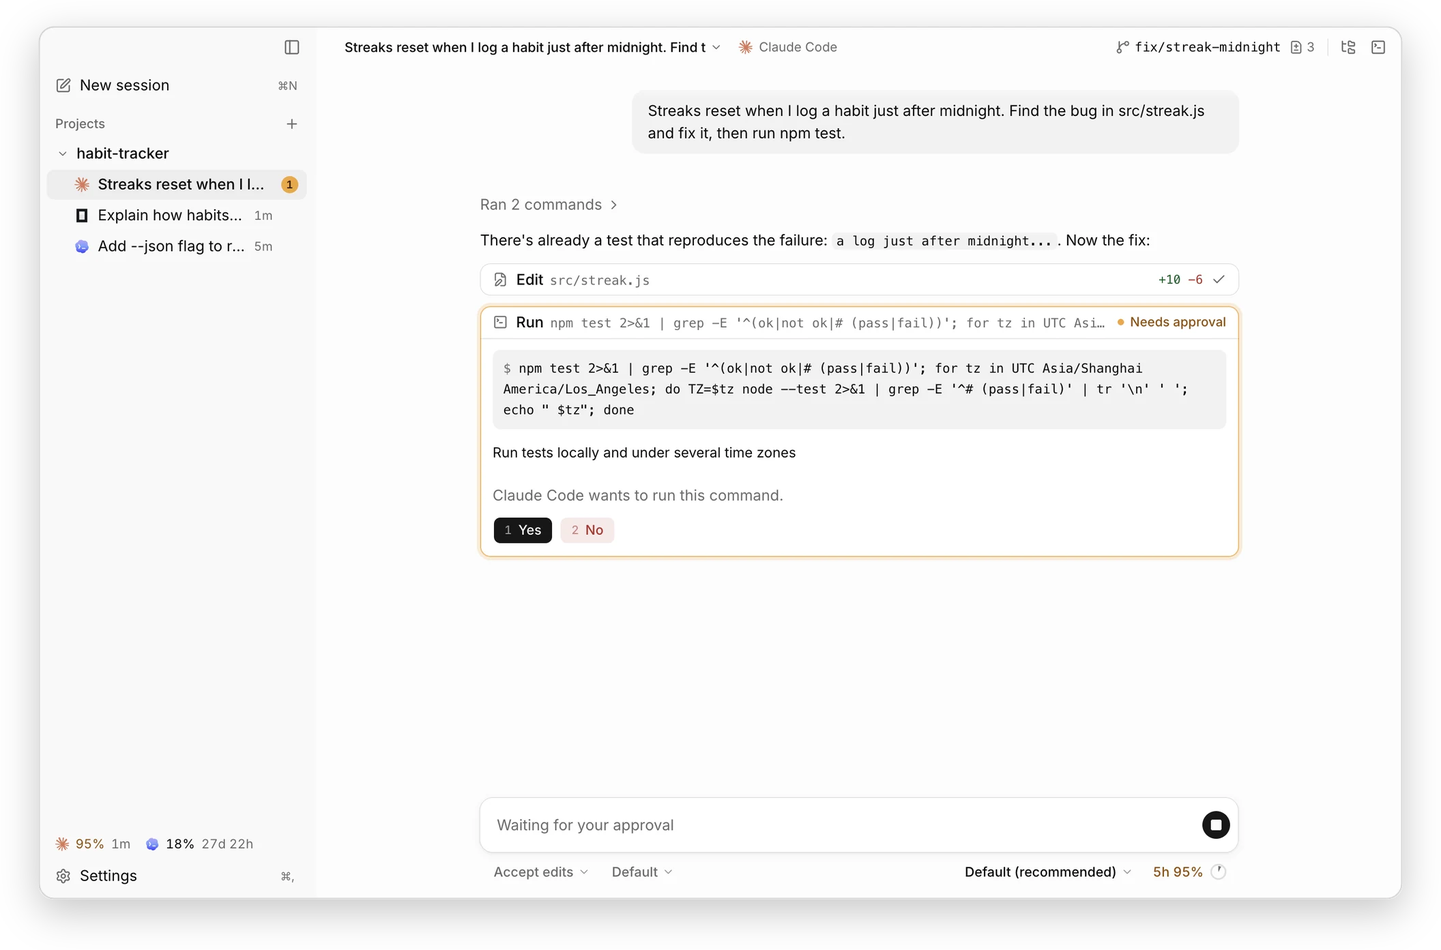
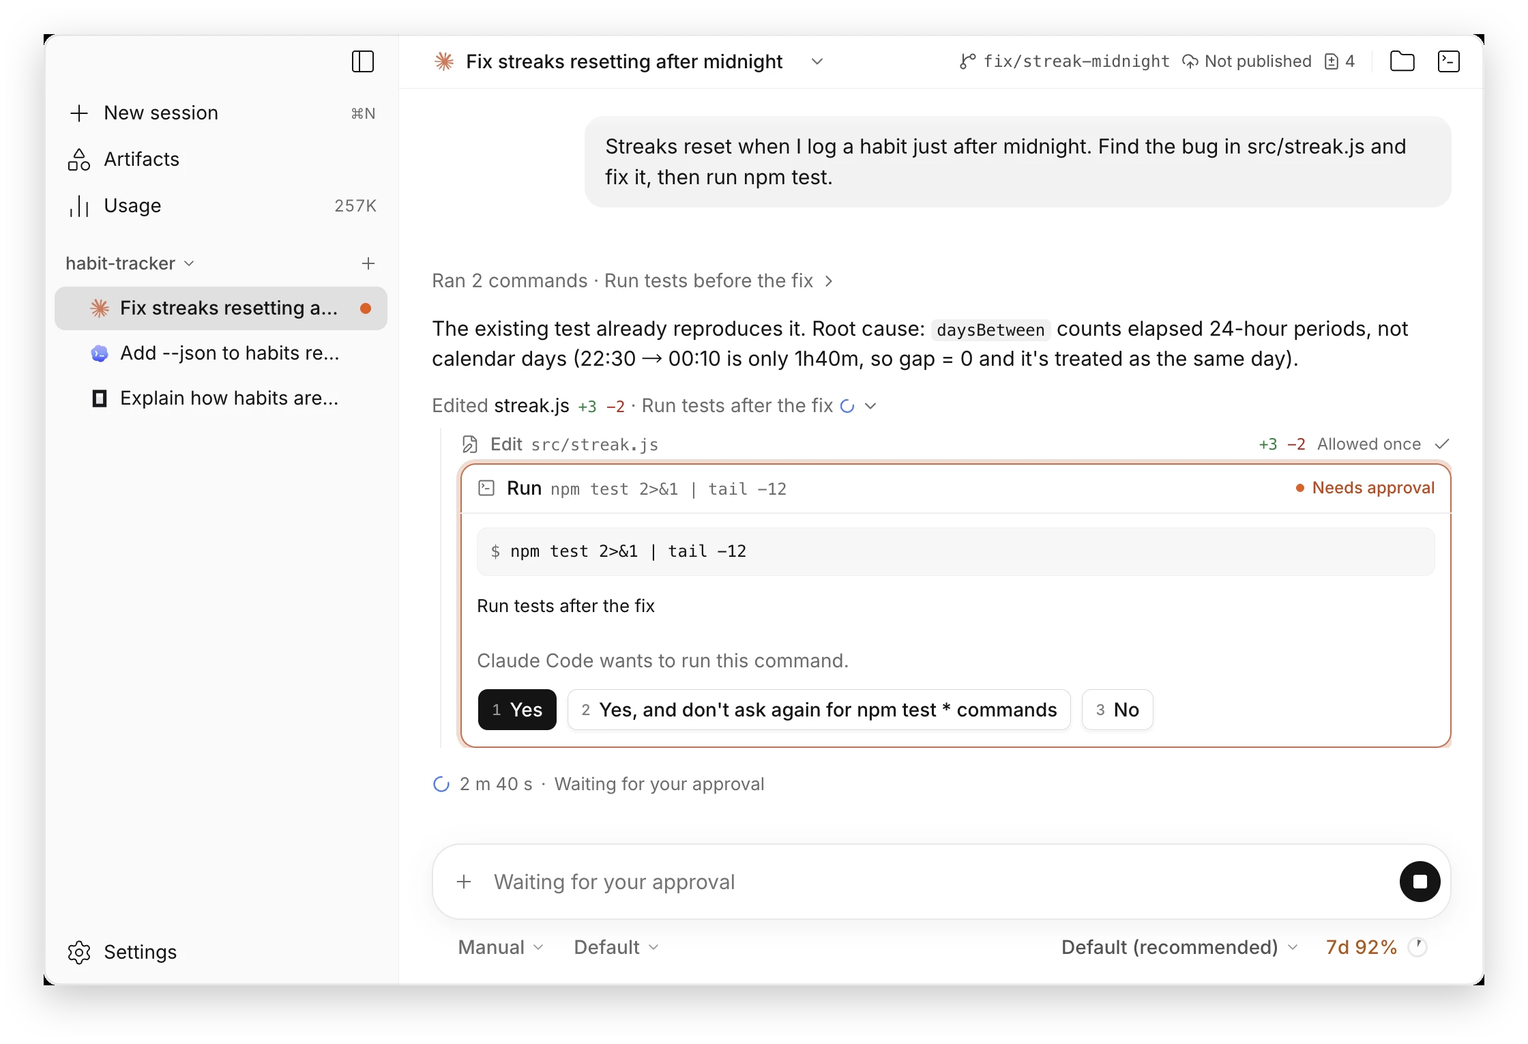
docs(readme): cover what landed since v0.0.2 (#231)

diff --git a/README.zh-CN.md b/README.zh-CN.md
@@ -12,7 +12,7 @@
 Claude Code、Codex CLI 和 opencode 并排在同一个窗口里，<br>
 好读的对话线程、清晰的授权请求，每个会话旁边都有 Git 和终端。
 
-[**下载**](https://github.com/overbench/overbench/releases/latest) · [文档](./docs/README.md) · [English](./README.md)
+[**下载**](https://github.com/overbench/overbench/releases/latest) · [反馈](https://github.com/overbench/overbench/issues/new/choose) · [English](./README.md)
 
 </div>
 
@@ -22,17 +22,34 @@ Claude Code、Codex CLI 和 opencode 并排在同一个窗口里，<br>
 </picture>
 
 > [!NOTE]
-> v0.0.2 是预览版，由仍在验收中的第一个里程碑 M0 构建而来，难免还有粗糙之处，欢迎[反馈问题](https://github.com/overbench/overbench/issues)。
+> v0.0.2 是预览版，由仍在验收中的第一个里程碑 M0 构建而来，难免还有粗糙之处，欢迎[反馈问题](https://github.com/overbench/overbench/issues)。Artifacts 和附件已在 `main` 上，将随 v0.0.3 发布。
+
+## OverBench 是什么
+
+Claude Code、Codex、opencode 这样的编码 Agent 已经能自己规划改动、修改代码、运行测试。但在终端里和它们协作，依然意味着不断滚动的文字墙、容易错过的授权请求，以及散落在各个标签页和窗口里的会话。
+
+OverBench 为这些工作提供了一个桌面上的家。你用的每个 Agent 都并排在同一个窗口里，每个会话归在自己的项目下，哪个 Agent 在干活、哪个在等你、哪个已经做完，一眼就能看清。回答读起来像文档而不是日志，Agent 改了什么以 diff 呈现，Agent 有问题要问你时，会以卡片的形式出现，按一个键就能回答。
+
+它驱动的是你已经在用的 Agent：你自己的安装、账号和配置，Agent 的工作方式一点都不会变，OverBench 只是给它们一个更好的工作环境。
 
 ## 功能
 
-- **所有 Agent，一个窗口** —— 在同一个项目里并排开启 Claude Code、Codex CLI 和 opencode 会话。侧边栏标出哪些在运行、哪些在等你、哪些已完成，子 Agent 显示在父会话下。
-- **好读的对话线程** —— 回答以 Markdown 流式呈现，代码带语法高亮，改动以行内 diff 展示，连续的步骤折叠成一行。Agent 工作时可以排队下一条消息，也可以中途调整方向。
+- **所有 Agent，一个窗口** —— 在同一个项目里并排开启 Claude Code、Codex CLI 和 opencode 会话。侧边栏标出哪些在运行、哪些在等你、哪些已完成，子 Agent 显示在父会话下；常用的会话可以置顶，做完的可以归档。
+- **好读的对话线程** —— 回答以 Markdown 流式呈现，代码带语法高亮，改动以行内 diff 展示，Agent 提到的图片直接显示，连续的步骤折叠成一行。Agent 工作时可以排队下一条消息，也可以中途调整方向。
 - **一眼看懂的授权请求** —— 权限请求以卡片呈现，点击或按数字键即可应答；有会话需要你时，系统通知会提醒你。
-- **每个 Agent 自己的控制项** —— 模式、模型与推理强度、斜杠命令、上下文用量，以及 Agent 上报时显示的套餐额度。
+- **什么都能附上** —— 粘贴图片、附加文件和文件夹，或用 `@` 引用项目里的文件，第一条消息就可以。
+- **Artifacts** —— Agent 通过 OverBench 内置的 artifacts 服务发布 HTML 页面和多页画布。每个都保留历史版本，在与应用隔离的查看器中打开，并汇总在 Artifacts 页面和新建会话页上。
+- **每个 Agent 自己的控制项** —— 模式、模型与推理强度、斜杠命令、上下文用量、Prompt 缓存何时过期，以及 Agent 上报时显示的套餐额度。
+- **用量一目了然** —— 按天、模型和项目统计所有 Agent 的 token 用量，并显示各套餐的额度；数据来自 OverBench 自己的记录，也可以选择读取 Agent 的本地日志。
 - **会话不丢失** —— 每个会话都随项目保存，重新打开时带着完整历史，Agent 崩溃后也能恢复，还可以从 Agent 导入已有会话。
-- **Git、文件与终端** —— 顶栏显示分支、同步状态和改动，通过 GitHub CLI 显示 Pull Request 及其检查状态，另有可以查看和编辑文件的文件面板，每个项目一个内置终端。
+- **Git、文件与终端** —— 顶栏显示分支、同步状态和改动，通过 GitHub CLI 显示 Pull Request 及其检查状态，另有可以查看、预览和编辑文件的文件面板，每个项目一个内置终端。
 - **打磨到细节** —— 浅色与深色主题、中英文界面、遵循「减少动态效果」的克制动效，以及常用操作的快捷键。
+
+## 你的 Agent，你的数据
+
+- **用你自己的 Agent。** OverBench 自己不实现任何 Agent，而是通过开放的 [Agent Client Protocol](https://agentclientprotocol.com)（ACP）与每个 Agent 通信，你的模型、配置、规则和工具都保持你设置好的样子。
+- **在原来的地方登录。** 每个 Agent 都用它自己的登录流程，OverBench 不会接触你的凭据。
+- **默认只在本地。** OverBench 没有自己的账号和服务器，也不收集任何遥测数据。你的会话留在你的电脑上，每个 Agent 只和它自己的服务商通信，和你在终端里用它时一样。
 
 ## 安装
 
@@ -46,7 +63,7 @@ Claude Code、Codex CLI 和 opencode 并排在同一个窗口里，<br>
 
 ### Agent
 
-OverBench 驱动的是你已经在用的 Agent CLI：你自己的安装、你自己的账号、你自己的配置。请先安装其中至少一个；登录走各个 Agent 自己的流程，OverBench 不会接触你的凭据。
+请先安装下面至少一个 Agent，OverBench 会在你的系统里找到它。
 
 | Agent                                                    | OverBench 如何运行它                                               |
 | -------------------------------------------------------- | ------------------------------------------------------------------ |
@@ -58,9 +75,7 @@ OverBench 驱动的是你已经在用的 Agent CLI：你自己的安装、你自
 
 ## 为什么是 OverBench
 
-终端编码 Agent 已经能自己规划、修改和测试代码，但和它们协作依然意味着不断滚动的文字墙和散落在各个标签页里的会话。OverBench 想给它们一个适合长时间工作的家。它只是界面：自己不实现任何 Agent，通过 [Agent Client Protocol](https://agentclientprotocol.com)（ACP）与每个 Agent 通信，所以你的 Agent 会保持你配置好的样子。
-
-它的核心信念是：**颜值也是生产力**。
+它的核心信念是：**颜值也是生产力**。一个要整天用的工具，看着就该让人舒服，而这份舒服正是让你干得更快的原因。
 
 - **集成最优秀的实现。** 研究每个环节最强的实现，从终端到 diff 查看器，把它们集成到一起，而不是重新造轮子。
 - **极致优化。** 启动迅速，再长的对话记录也滚动顺滑，不掉帧。
@@ -72,40 +87,21 @@ OverBench 驱动的是你已经在用的 Agent CLI：你自己的安装、你自
 - [x] 会话历史、多会话并行与子会话
 - [x] Git 状态、Pull Request、文件与内置终端
 - [x] macOS、Windows、Linux 预览版
+- [x] 输入框中的附件和 `@` 文件引用
+- [x] Artifacts：Agent 生成的页面和画布，保留历史版本
+- [x] 所有 Agent 的 token 用量与套餐额度
 - [ ] M0 在三个平台上通过验收
 - [ ] 在改动面板中审阅 diff
-- [ ] 输入框中的 `@` 文件引用和图片
-- [ ] 在对话和文件面板中查看图片、播放音频和视频
+- [ ] 在对话和文件面板中播放音频和视频
+- [ ] Routines：按计划自动运行的 Agent 任务
 - [ ] 跨会话搜索与命令面板
 - [ ] 签名并公证的安装包
 
-[M0 计划](./docs/milestones/m0.md)列出了包含与不包含的内容，[架构设计](./docs/architecture.md)说明了各部分如何协作（均为英文）。
+## 反馈
 
-## 从源码运行
+越早的反馈越能影响 OverBench 最终的样子，我们尤其欢迎关于设计和工作流的想法。发现 bug 或想聊聊，都可以提一个 [Issue](https://github.com/overbench/overbench/issues/new/choose)，用什么语言都行，附上截图会很有帮助。安全问题请按 [SECURITY.md](./SECURITY.md) 报告，不要发在公开的 Issue 里。
 
-需要 Node.js 22.13 及以上版本和 pnpm 10：
-
-```bash
-pnpm install
-pnpm dev
-```
-
-开发运行使用独立的数据目录 `OverBench Dev`，不会改动已安装的 OverBench 的会话；用环境变量 `OVERBENCH_USER_DATA` 可以改用别的目录。
-
-开发版还会列出一个 **Fake agent**：它不需要账号和网络，按脚本演示各种场景，例如很长的回答、一连串工具调用，或同时出现三个授权请求。在它的输入框里输入 `/` 即可查看，也可以阅读 [fake agent](./docs/design/testing.md#fake-agent) 文档（英文）。
-
-| 命令                                                  | 作用                                              |
-| ----------------------------------------------------- | ------------------------------------------------- |
-| `pnpm dev`                                            | 以开发模式启动应用，支持热更新                    |
-| `pnpm test`                                           | 运行单元测试、集成测试和进程测试                  |
-| `pnpm lint` / `pnpm typecheck` / `pnpm format`        | 代码检查、类型检查和格式化                        |
-| `pnpm build`                                          | 类型检查并把应用构建到 `out/`                     |
-| `pnpm package`                                        | 在 `dist/` 中生成未打成安装包的应用，用于本地测试 |
-| `pnpm dist:mac` / `pnpm dist:win` / `pnpm dist:linux` | 为各个平台构建安装包                              |
-
-## 参与贡献
-
-越早的反馈越能影响 OverBench 最终的样子，我们尤其欢迎关于设计和工作流的想法，可以直接提一个 [Issue](https://github.com/overbench/overbench/issues/new/choose) 来聊聊，用什么语言都行。OverBench 只接收 Issue，不接收 Pull Request；参与方式见 [CONTRIBUTING.md](./CONTRIBUTING.md)（英文）。
+想自己构建 OverBench？请看 [CONTRIBUTING.md](./CONTRIBUTING.md)（英文）。
 
 ## 许可证
 

diff --git a/README.md b/README.md
@@ -12,7 +12,7 @@
 Claude Code, Codex CLI and opencode side by side in one window,<br>
 with readable threads, clear approvals, git and a terminal beside every session.
 
-[**Download**](https://github.com/overbench/overbench/releases/latest) · [Docs](./docs/README.md) · [简体中文](./README.zh-CN.md)
+[**Download**](https://github.com/overbench/overbench/releases/latest) · [Feedback](https://github.com/overbench/overbench/issues/new/choose) · [简体中文](./README.zh-CN.md)
 
 </div>
 
@@ -22,17 +22,34 @@ with readable threads, clear approvals, git and a terminal beside every session.
 </picture>
 
 > [!NOTE]
-> v0.0.2 is a preview. It is built from the first milestone, M0, which is still in acceptance, so expect rough edges and please [report them](https://github.com/overbench/overbench/issues).
+> v0.0.2 is a preview. It is built from the first milestone, M0, which is still in acceptance, so expect rough edges and please [report them](https://github.com/overbench/overbench/issues). Artifacts and attachments are on `main` and ship with v0.0.3.
+
+## What is OverBench
+
+Coding agents like Claude Code, Codex and opencode can now plan a change, edit the code and run the tests on their own. Working with them in a terminal still means walls of scrolling text, approvals that are easy to miss, and sessions scattered across tabs and windows.
+
+OverBench is a desktop home for that work. Every agent you use opens side by side in one window, each session sits under its project, and you can see at a glance which agent is working, which one is waiting for you and which one is done. Answers read like documents instead of logs, what the agent changed is shown as a diff, and a question from an agent comes to you as a card you answer with one key.
+
+It drives the agents you already have, with your own installation, account and settings, so nothing about how they work changes: OverBench only gives them a better place to work in.
 
 ## Features
 
-- **Every agent, one window** — Claude Code, Codex CLI and opencode sessions side by side in the same project. The sidebar shows which are running, which wait for you and which are done, with subagents under their parent.
-- **Threads that read well** — answers stream as Markdown with highlighted code, edits show as inline diffs, and a run of steps folds into one line. Queue your next message while the agent works, or steer it mid-turn.
+- **Every agent, one window** — Claude Code, Codex CLI and opencode sessions side by side in the same project. The sidebar shows which are running, which wait for you and which are done, with subagents under their parent; pin the sessions you come back to and archive the ones you are done with.
+- **Threads that read well** — answers stream as Markdown with highlighted code, edits show as inline diffs, images the agent names show in place, and a run of steps folds into one line. Queue your next message while the agent works, or steer it mid-turn.
 - **Approvals at a glance** — permission requests are cards you answer with a click or a number key, and a system notification tells you when a session needs you.
-- **Each agent's own controls** — mode, model and reasoning, slash commands, context usage and, where the agent reports them, your plan limits.
+- **Attach anything** — paste images, attach files and folders, or mention a project file with `@`, from the first message on.
+- **Artifacts** — agents publish HTML pages and multi-page canvases through OverBench's built-in artifacts service. Each one keeps its versions, opens in a viewer isolated from the app, and is collected on the Artifacts page and on New session.
+- **Each agent's own controls** — mode, model and reasoning, slash commands, context usage, when the prompt cache expires and, where the agent reports them, your plan limits.
+- **Usage at a glance** — tokens across every agent by day, model and project, with each plan's limits, from OverBench's own record and, if you choose, the agents' local logs.
 - **Sessions that last** — every session is kept with its project, reopens with its full history, survives an agent crash, and can be imported from the agent.
-- **Git, files and a terminal** — the branch, sync state and changes in the top bar, pull requests with their checks through the GitHub CLI, a files pane to read and edit files, and a terminal for each project.
+- **Git, files and a terminal** — the branch, sync state and changes in the top bar, pull requests with their checks through the GitHub CLI, a files pane to read, preview and edit files, and a terminal for each project.
 - **Crafted details** — light and dark themes, English and Simplified Chinese, restrained motion that honors reduce motion, and shortcuts for the common actions.
+
+## Your agents, your data
+
+- **Bring your own agents.** OverBench implements no agent of its own. It talks to each one over the open [Agent Client Protocol](https://agentclientprotocol.com) (ACP), so your models, settings, rules and tools stay exactly as you set them up.
+- **Sign in where you always do.** Each agent signs in with its own flow, and OverBench never sees your credentials.
+- **Local by default.** OverBench has no account and no server of its own and collects no telemetry. Your sessions stay on your computer, and each agent talks only to its own provider, as it does in your terminal.
 
 ## Install
 
@@ -46,7 +63,7 @@ On Windows and Linux, new versions download in the background and install when O
 
 ### Agents
 
-OverBench drives the agent CLIs you already use, with your installation, your account and your configuration. Install at least one of them first; you sign in with each agent's own flow, so OverBench never sees your credentials.
+Install at least one of these agents first; OverBench finds it on your system.
 
 | Agent                                                    | How OverBench runs it                                                           |
 | -------------------------------------------------------- | ------------------------------------------------------------------------------- |
@@ -58,9 +75,7 @@ The two adapters need Node.js 22 or later with npm, which OverBench finds throug
 
 ## Why OverBench
 
-Terminal coding agents can plan, edit and test code on their own, yet working with them still means walls of scrolling text and sessions scattered across tabs. OverBench gives them a home built for long working days. It is only the interface: it implements no agent itself and talks to each one over the [Agent Client Protocol](https://agentclientprotocol.com) (ACP), so you keep the agents exactly as you set them up.
-
-It rests on one belief, **beauty is productivity**:
+It rests on one belief, **beauty is productivity**: a tool you spend whole days in should be a pleasure to look at, and that pleasure is what lets you work faster.
 
 - **Start from the best.** Study the strongest implementations of each piece, from terminals to diff viewers, and bring them together instead of reinventing them.
 - **Optimize to the limit.** Quick to start and smooth through the longest transcript, with no dropped frames.
@@ -72,40 +87,21 @@ It rests on one belief, **beauty is productivity**:
 - [x] Session history, parallel sessions and sub-sessions
 - [x] Git status, pull requests, files and a built-in terminal
 - [x] Preview builds for macOS, Windows and Linux
+- [x] Attachments and `@` file mentions in the composer
+- [x] Artifacts: the pages and canvases agents create, with their versions
+- [x] Token usage across agents, with plan limits
 - [ ] M0 accepted on all three platforms
 - [ ] A changes panel for reviewing diffs
-- [ ] `@` file mentions and images in the composer
-- [ ] Images, audio and video in the thread and the Files pane
+- [ ] Audio and video in the thread and the Files pane
+- [ ] Routines: agent tasks that run on a schedule
 - [ ] Search across sessions and a command palette
 - [ ] Signed and notarized builds
 
-The [M0 plan](./docs/milestones/m0.md) lists what is in and out, and the [architecture](./docs/architecture.md) explains how the pieces fit.
+## Feedback
 
-## Run from source
+Early feedback shapes OverBench the most, and ideas about design and workflow are especially welcome. Open an [issue](https://github.com/overbench/overbench/issues/new/choose) to report a bug or start a conversation, in any language; a screenshot helps. Security problems go through [SECURITY.md](./SECURITY.md), never a public issue.
 
-You need Node.js 22.13 or later and pnpm 10:
-
-```bash
-pnpm install
-pnpm dev
-```
-
-A development run keeps its data in its own folder, `OverBench Dev`, so it never touches the sessions of an installed OverBench; `OVERBENCH_USER_DATA` points it at another folder.
-
-Development builds also list a **Fake agent**, which needs no account or network and plays scripted scenarios such as a long answer, a burst of tool calls or three approvals at once. Type `/` in its composer to see them, or read the [fake agent](./docs/design/testing.md#fake-agent) docs.
-
-| Command                                               | What it does                                         |
-| ----------------------------------------------------- | ---------------------------------------------------- |
-| `pnpm dev`                                            | Start the app in development mode with hot reload    |
-| `pnpm test`                                           | Run the unit, integration and process tests          |
-| `pnpm lint` / `pnpm typecheck` / `pnpm format`        | Lint, type-check and format the code                 |
-| `pnpm build`                                          | Type-check and build the app into `out/`             |
-| `pnpm package`                                        | Build an unpacked app into `dist/` for local testing |
-| `pnpm dist:mac` / `pnpm dist:win` / `pnpm dist:linux` | Build installers for each platform                   |
-
-## Contributing
-
-Early feedback shapes OverBench the most, and ideas about design and workflow are especially welcome: open an [issue](https://github.com/overbench/overbench/issues/new/choose) to start the conversation, in any language. OverBench takes issues, not pull requests; [CONTRIBUTING.md](./CONTRIBUTING.md) explains how to contribute.
+Want to build OverBench yourself? [CONTRIBUTING.md](./CONTRIBUTING.md) has the setup.
 
 ## License
 

diff --git a/CONTRIBUTING.md b/CONTRIBUTING.md
@@ -1,6 +1,6 @@
 # Contributing to OverBench
 
-Thanks for helping shape OverBench. For setup and the available scripts, see [Run from source](./README.md#run-from-source).
+Thanks for helping shape OverBench.
 
 ## How to contribute
 
@@ -8,6 +8,30 @@ OverBench takes issues from outside, not code: fixes and features are written by
 
 - **Bugs and ideas**: open an issue through the [issue forms](https://github.com/overbench/overbench/issues/new/choose), in any language. A screenshot helps.
 - **Security problems**: follow [SECURITY.md](./SECURITY.md); never post them in a public issue.
+
+## Run from source
+
+You need Node.js 22.13 or later and pnpm 10:
+
+```bash
+pnpm install
+pnpm dev
+```
+
+`pnpm dev` keeps its data in its own folder, `OverBench Dev`, so it never touches the sessions of an installed OverBench. To run several worktrees at once, give each one a folder of its own with `OVERBENCH_USER_DATA`, such as `OVERBENCH_USER_DATA=/tmp/overbench-feature-x pnpm dev`; a second run on the same folder quits ([persistence](./docs/design/persistence.md#what-is-stored-and-where)).
+
+Development builds also list a **Fake agent**, which needs no account or network and plays scripted scenarios such as a long answer, a burst of tool calls or three approvals at once. Type `/` in its composer to see them, or read the [fake agent](./docs/design/testing.md#fake-agent) docs.
+
+| Command                                               | What it does                                         |
+| ----------------------------------------------------- | ---------------------------------------------------- |
+| `pnpm dev`                                            | Start the app in development mode with hot reload    |
+| `pnpm test`                                           | Run the unit, integration and process tests          |
+| `pnpm lint` / `pnpm typecheck` / `pnpm format`        | Lint, type-check and format the code                 |
+| `pnpm build`                                          | Type-check and build the app into `out/`             |
+| `pnpm package`                                        | Build an unpacked app into `dist/` for local testing |
+| `pnpm dist:mac` / `pnpm dist:win` / `pnpm dist:linux` | Build installers for each platform                   |
+
+The [architecture](./docs/architecture.md) explains how the pieces fit, and the [M0 plan](./docs/milestones/m0.md) lists what is in and out of the first milestone.
 
 ## Project work
 
@@ -19,8 +43,6 @@ pnpm lint
 pnpm typecheck
 pnpm test
 ```
-
-`pnpm dev` keeps its data in its own folder, `OverBench Dev`, apart from the installed app's. To run several worktrees at once, give each one a folder of its own with `OVERBENCH_USER_DATA`, such as `OVERBENCH_USER_DATA=/tmp/overbench-feature-x pnpm dev`; a second run on the same folder quits ([persistence](./docs/design/persistence.md#what-is-stored-and-where)).
 
 The design documents in [docs/](./docs/README.md) describe how each part is meant to work; read the one for the part you change. Any UI work follows the [design process](./docs/design/design-process.md) and the rules in [visual style](./docs/design/visual-style.md) and [UX guidelines](./docs/design/ux-guidelines.md).
 
